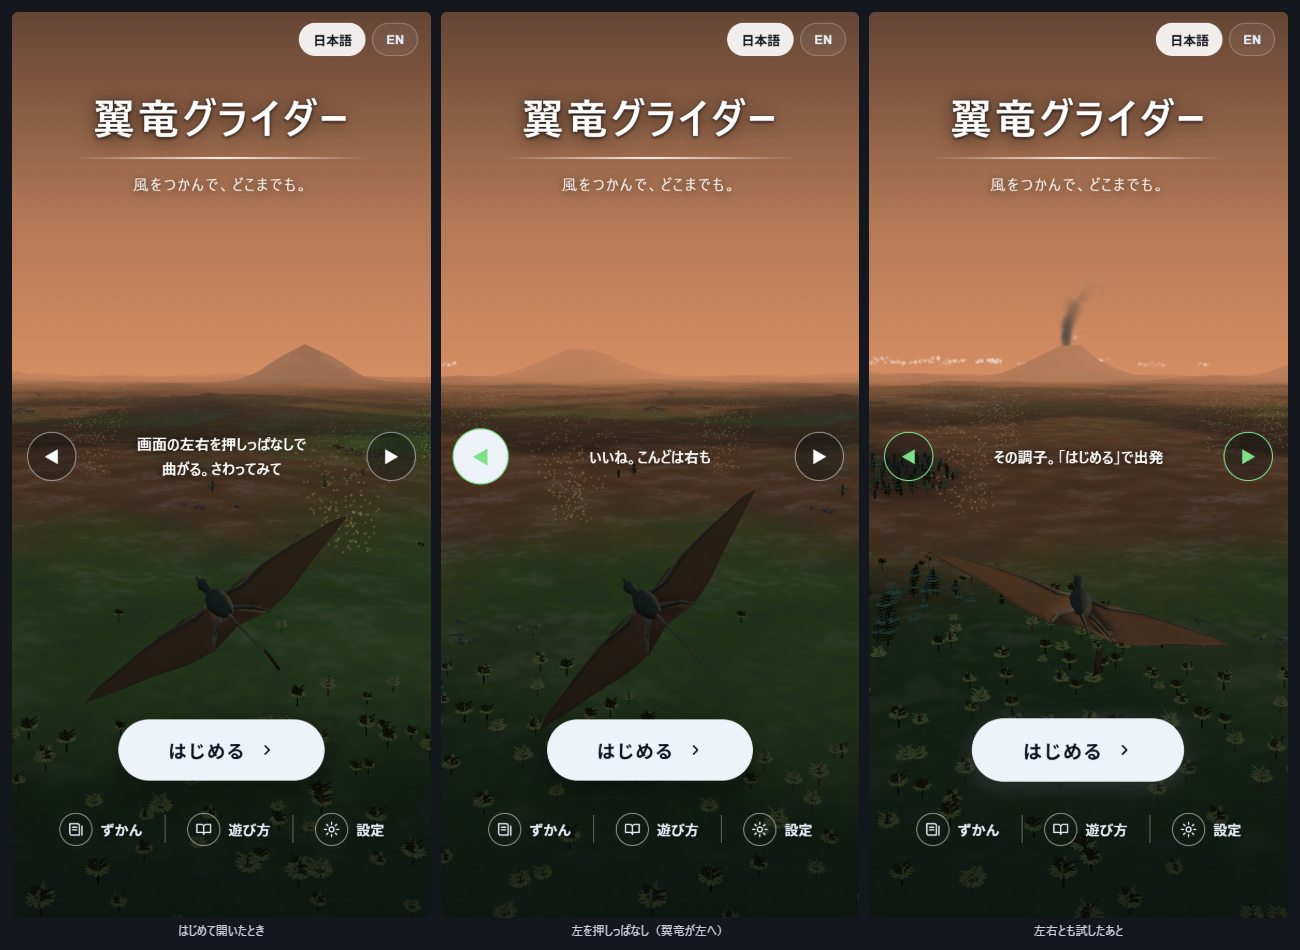
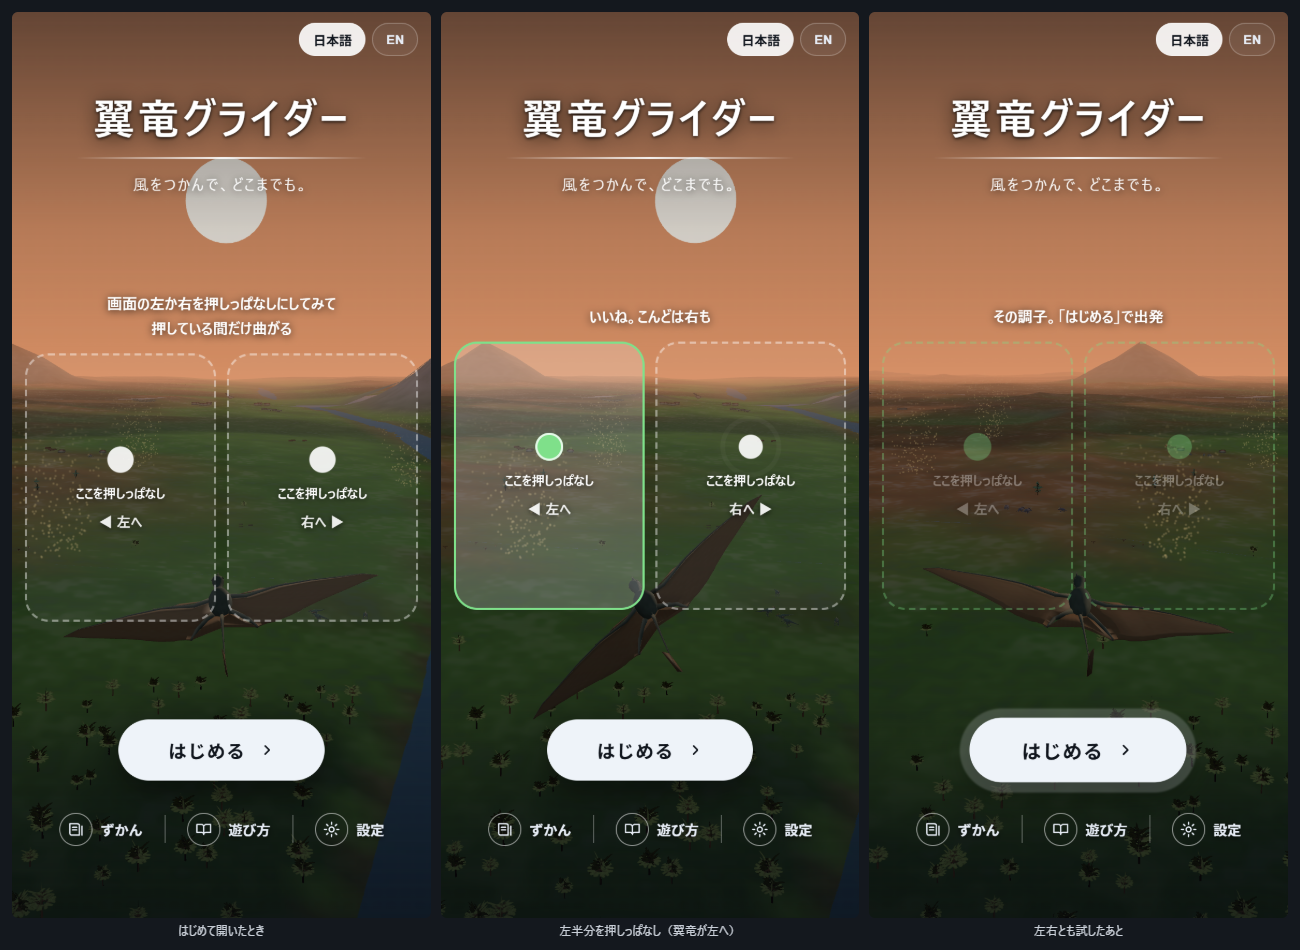
さわって覚える: 押す場所を画面の左右半分で見せ、離したあと逆へ切り返さないようにした
- 丸い◀▶はボタンに見えて「これを押すのか」と迷う(所長)。画面の左半分・右半分そのものを
  点線の枠で囲み、押し込む動きの点と「ここを押しっぱなし」で示す。押している間はその半分全体が光る
- 離した直後に自動操縦へ戻すと、自分の目標へ向かって逆へ切り返していた(所長「押した方向に曲がった後逆にいく」)。
  離したら5秒はまっすぐ水平に戻り、そのあとも自動操縦はゆっくりしか切らない
- 案内の文を「画面の左か右を押しっぱなしにしてみて / 押している間だけ曲がる」に

検査: 離したあと3秒の傾き -0.40 → -0.01(反対側へ最大 -0.01)。check-tutorial 全件PASS

diff --git a/index.html b/index.html
@@ -55,14 +55,28 @@
   /* タイトルの上でも左右を押せば後ろの翼竜が曲がる(さわって覚える)。押せる物だけ指を受ける */
   #start { pointer-events:none; }
   #start button { pointer-events:auto; }
-  /* さわってみて の案内。左右の端の印は「押す場所」、押している間だけ光る */
-  #try { display:flex; align-items:center; justify-content:space-between; gap:10px; margin:0 -8px; }
-  #try p { flex:1; font-size:14px; line-height:1.65; font-weight:600; text-shadow:0 1px 8px rgba(0,0,0,.85); white-space:pre-line; }
-  #try .side { flex:none; width:46px; height:46px; display:grid; place-items:center; border-radius:50%;
-               border:1px solid rgba(255,255,255,.5); background:rgba(10,14,20,.35); font-size:15px;
-               transition:transform .15s, background .15s, color .15s; }
-  #try .side.on { background:#eef3f9; color:#10151d; transform:scale(1.14); }
-  #try .side.done { border-color:#7fe08a; color:#7fe08a; }
+  /* さわってみて の案内。ボタンに見えないよう、画面の左半分・右半分そのものを「押す場所」として囲む。
+     丸い◀▶だと「この印を押すのか」と迷う(所長) */
+  #try { display:flex; flex-direction:column; gap:12px; margin:0 -10px; }
+  #try p { font-size:14px; line-height:1.65; font-weight:600; text-shadow:0 1px 8px rgba(0,0,0,.85); white-space:pre-line; }
+  #zones { display:flex; gap:10px; height:min(30vh,250px); }
+  .zone { flex:1; display:flex; flex-direction:column; align-items:center; justify-content:center; gap:10px;
+          border:2px dashed rgba(255,255,255,.42); border-radius:22px; background:rgba(255,255,255,.05);
+          transition:background .15s, border-color .15s, opacity .4s; }
+  .zone em { font-style:normal; font-size:12px; font-weight:650; text-shadow:0 1px 6px rgba(0,0,0,.85); }
+  .zone b { font-size:13px; font-weight:700; opacity:.9; text-shadow:0 1px 6px rgba(0,0,0,.85); }
+  /* 指を置く所。押し込む動きと広がる輪で「ここを押す」を見せる */
+  .zone i { position:relative; width:26px; height:26px; border-radius:50%; background:rgba(255,255,255,.9);
+            animation:tapDot 1.6s ease-in-out infinite; }
+  .zone i::after { content:""; position:absolute; inset:0; border-radius:50%; border:2px solid rgba(255,255,255,.8);
+                   animation:tapRing 1.6s ease-out infinite; }
+  @keyframes tapDot { 0%,100% { transform:scale(1); } 30% { transform:scale(.8); } }
+  @keyframes tapRing { 0% { transform:scale(1); opacity:.9; } 70%,100% { transform:scale(2.6); opacity:0; } }
+  .zone.on { background:rgba(255,255,255,.22); border-style:solid; border-color:#fff; }
+  .zone.on i, .zone.on i::after { animation:none; }
+  .zone.done { border-color:#7fe08a; }
+  .zone.done i { background:#7fe08a; }
+  #try.all .zone { opacity:.35; }
   #go.pulse { animation:goPulse 1.1s ease-in-out infinite; }
   @keyframes goPulse { 50% { transform:scale(1.06); box-shadow:0 0 0 9px rgba(238,243,249,.2), 0 10px 30px rgba(0,0,0,.45); } }
   #start h1 { font-size:clamp(30px,10vw,44px); font-weight:800; letter-spacing:.06em; line-height:1.15;
@@ -244,9 +258,11 @@
       <p id="tagline"></p>
     </div>
     <div id="try" class="hidden" aria-live="polite">
-      <span id="tryL" class="side" aria-hidden="true">◀</span>
       <p id="tryText"></p>
-      <span id="tryR" class="side" aria-hidden="true">▶</span>
+      <div id="zones" aria-hidden="true">
+        <div id="zoneL" class="zone"><i></i><em class="zHold">ここを押しっぱなし</em><b id="zoneLText">◀ 左へ</b></div>
+        <div id="zoneR" class="zone"><i></i><em class="zHold">ここを押しっぱなし</em><b id="zoneRText">右へ ▶</b></div>
+      </div>
     </div>
     <div>
       <button id="go" type="button"><span id="goLabel">はじめる</span>

diff --git a/src/main.js b/src/main.js
@@ -155,11 +155,23 @@ function manual() {
 }
 function input(dt) {
   if (window.__slice && typeof window.__slice.forceInput === 'number') return window.__slice.forceInput;
-  // タイトルでは、押している間だけ後ろの翼竜を手で動かせる(さわって覚える)。離せば自動操縦に戻る
-  if (demo && manual() !== 0) return manual();
+  // タイトルでは、押している間だけ後ろの翼竜を手で動かせる(さわって覚える)
+  if (demo) {
+    const v = manual(), now = performance.now();
+    if (v !== 0) { demoHand = now; demoAuto = 0; return v; }
+    // 離した直後に自動操縦へ戻すと、自分の目標へ向かって逆へ切り返し「押した方の逆へ行く」に見えた(所長)。
+    // 離したらしばらくはまっすぐ水平に戻り、そのあとも自動操縦はゆっくりしか切らない
+    if (now - demoHand < DEMO_CALM * 1000) return 0;
+    const want = auto ? auto.input(glider, dt) : 0;
+    demoAuto += Math.max(-DEMO_EASE * dt, Math.min(DEMO_EASE * dt, want - demoAuto));
+    return demoAuto;
+  }
   if (auto) return auto.input(glider, dt);
   return manual();
 }
+const DEMO_CALM = 5;          // 離してから自動操縦に戻るまでの秒数
+const DEMO_EASE = 0.35;       // タイトルの自動操縦が操作を変える速さ(1秒あたり)
+let demoHand = 0, demoAuto = 0;
 
 // ---- さわって覚える(はじめて開いたとき) ----
 // 説明の板は出さない。タイトルの後ろで飛んでいる翼竜を、左右それぞれ押しっぱなしで曲げられたら終わり
@@ -176,16 +188,20 @@ function tutText() {
 function renderTut() {
   el('try').classList.toggle('hidden', tutDone && !(tut.doneL && tut.doneR));
   el('tryText').textContent = tutText();
-  el('tryL').classList.toggle('done', tut.doneL);
-  el('tryR').classList.toggle('done', tut.doneR);
+  el('zoneL').classList.toggle('done', tut.doneL);
+  el('zoneR').classList.toggle('done', tut.doneR);
+  el('try').classList.toggle('all', tut.doneL && tut.doneR);
+  for (const e of document.querySelectorAll('.zHold')) e.textContent = t('zoneHold');
+  el('zoneLText').textContent = t('zoneLeft');
+  el('zoneRText').textContent = t('zoneRight');
   ui.go.classList.toggle('pulse', tut.doneL && tut.doneR);
 }
 // 押している時間は実際の時計で数える。1コマの進み(最大0.05秒)を足すと、遅い端末では
 // 0.9秒押しても0.22秒ぶんにしかならず、いつまでも「できた」にならなかった
 function updateTut() {
   const v = manual(), now = performance.now();
-  el('tryL').classList.toggle('on', v < 0);
-  el('tryR').classList.toggle('on', v > 0);
+  el('zoneL').classList.toggle('on', v < 0);
+  el('zoneR').classList.toggle('on', v > 0);
   if (tut.doneL && tut.doneR) return;
   tut.leftAt = v < 0 ? (tut.leftAt || now) : 0;
   tut.rightAt = v > 0 ? (tut.rightAt || now) : 0;

diff --git a/src/i18n.js b/src/i18n.js
@@ -7,8 +7,9 @@ const DICT = {
     tagline: '風をつかんで、どこまでも。',
     howto: '遊び方', settings: '設定', camLabel: 'カメラ', back: '閉じる',
     dex: 'ずかん', dexUnknown: '???', dexNotYet: 'まだ出会っていない',
-    tryTouch: '画面の左右を押しっぱなしで\n曲がる。さわってみて',
-    tryKeys: '← → キーか画面の左右を\n押しっぱなしで曲がる。さわってみて',
+    tryTouch: '画面の左か右を押しっぱなしにしてみて\n押している間だけ曲がる',
+    tryKeys: '← → キーか、画面の左か右を押しっぱなしにしてみて\n押している間だけ曲がる',
+    zoneHold: 'ここを押しっぱなし', zoneLeft: '◀ 左へ', zoneRight: '右へ ▶',
     tryLeftDone: 'いいね。こんどは右も', tryRightDone: 'いいね。こんどは左も',
     tryDone: 'その調子。「はじめる」で出発',
     paused: 'とまっています', resume: 'つづける', retry: 'やり直し', toTitle: 'タイトルへ',
@@ -49,8 +50,9 @@ const DICT = {
     tagline: 'Catch the wind. Go as far as you can.',
     howto: 'How to play', settings: 'Settings', camLabel: 'Camera', back: 'Close',
     dex: 'Field guide', dexUnknown: '???', dexNotYet: 'Not seen yet',
-    tryTouch: 'Hold the left or right side of the screen to turn. Try it',
-    tryKeys: 'Hold ← or → (or a side of the screen) to turn. Try it',
+    tryTouch: 'Try holding the left or right side of the screen\nYou turn only while holding',
+    tryKeys: 'Try holding ← / → or a side of the screen\nYou turn only while holding',
+    zoneHold: 'Hold here', zoneLeft: '◀ Left', zoneRight: 'Right ▶',
     tryLeftDone: 'Nice. Now the right side', tryRightDone: 'Nice. Now the left side',
     tryDone: 'That is it. Tap Start to take off',
     paused: 'Paused', resume: 'Resume', retry: 'Start over', toTitle: 'Title',
